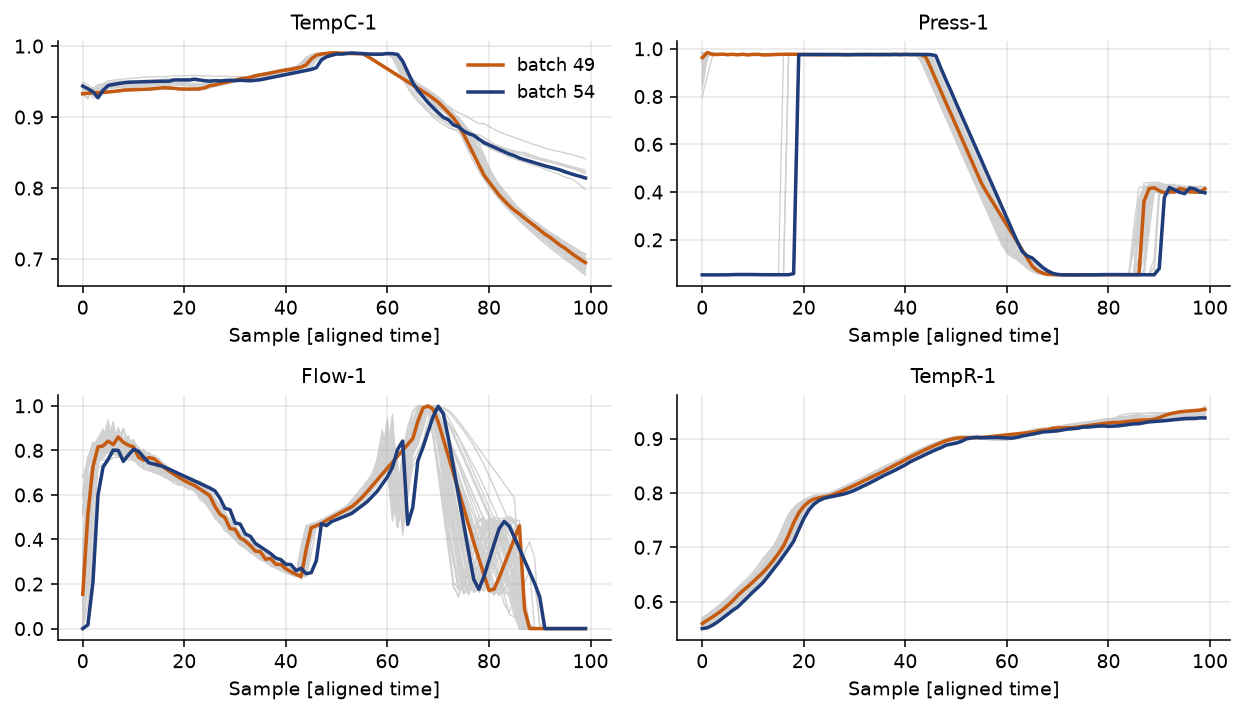
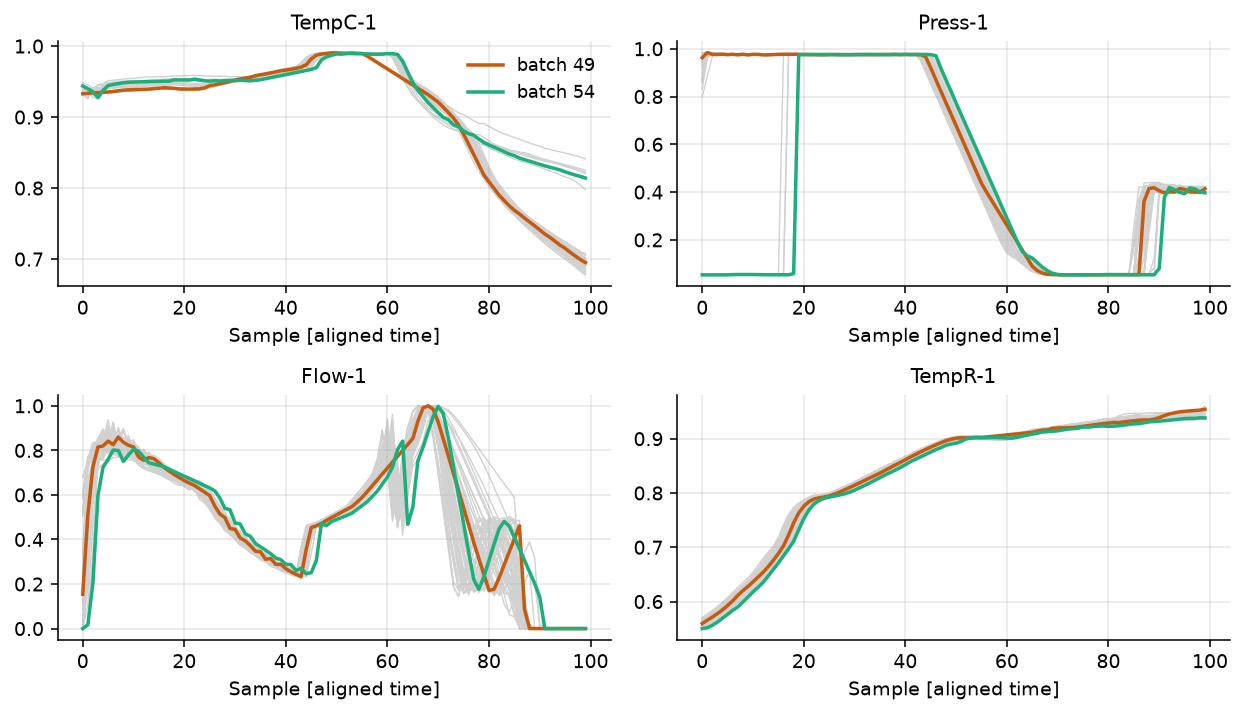
Draw batch 54 in the highlight colour, not the default series colour
Dark blue is the colour of every unremarkable batch in the score and
influence plots, so using it for batch 54 in the raw trajectory overlay gave
the same colour two meanings. Batch 54 is aqua there now, matching the colour
it carries in the two scatter plots as a batch beyond the T2 limit.

Claude-Session: https://claude.ai/code/session_01LXthGpHLQFfGubBiKFtGAE

diff --git a/batch/batch-case-dupont-figures.py b/batch/batch-case-dupont-figures.py
@@ -41,7 +41,7 @@ POOR_QUALITY_NOT_VISIBLE = [38, 40, 41, 42]
 def main(out_dir: pathlib.Path) -> None:
     batches = load_dupont()
 
-    fig = overlay_panels(batches, ["TempC-1", "Press-1", "Flow-1", "TempR-1"], {SPE_OUTLIER: ORANGE, 54: DARK_BLUE})
+    fig = overlay_panels(batches, ["TempC-1", "Press-1", "Flow-1", "TempR-1"], {SPE_OUTLIER: ORANGE, 54: AQUA})
     save(fig, out_dir, "batch-case-dupont-raw-trajectories")
 
     model_a = BatchPCA(n_components=2).fit(batches)
